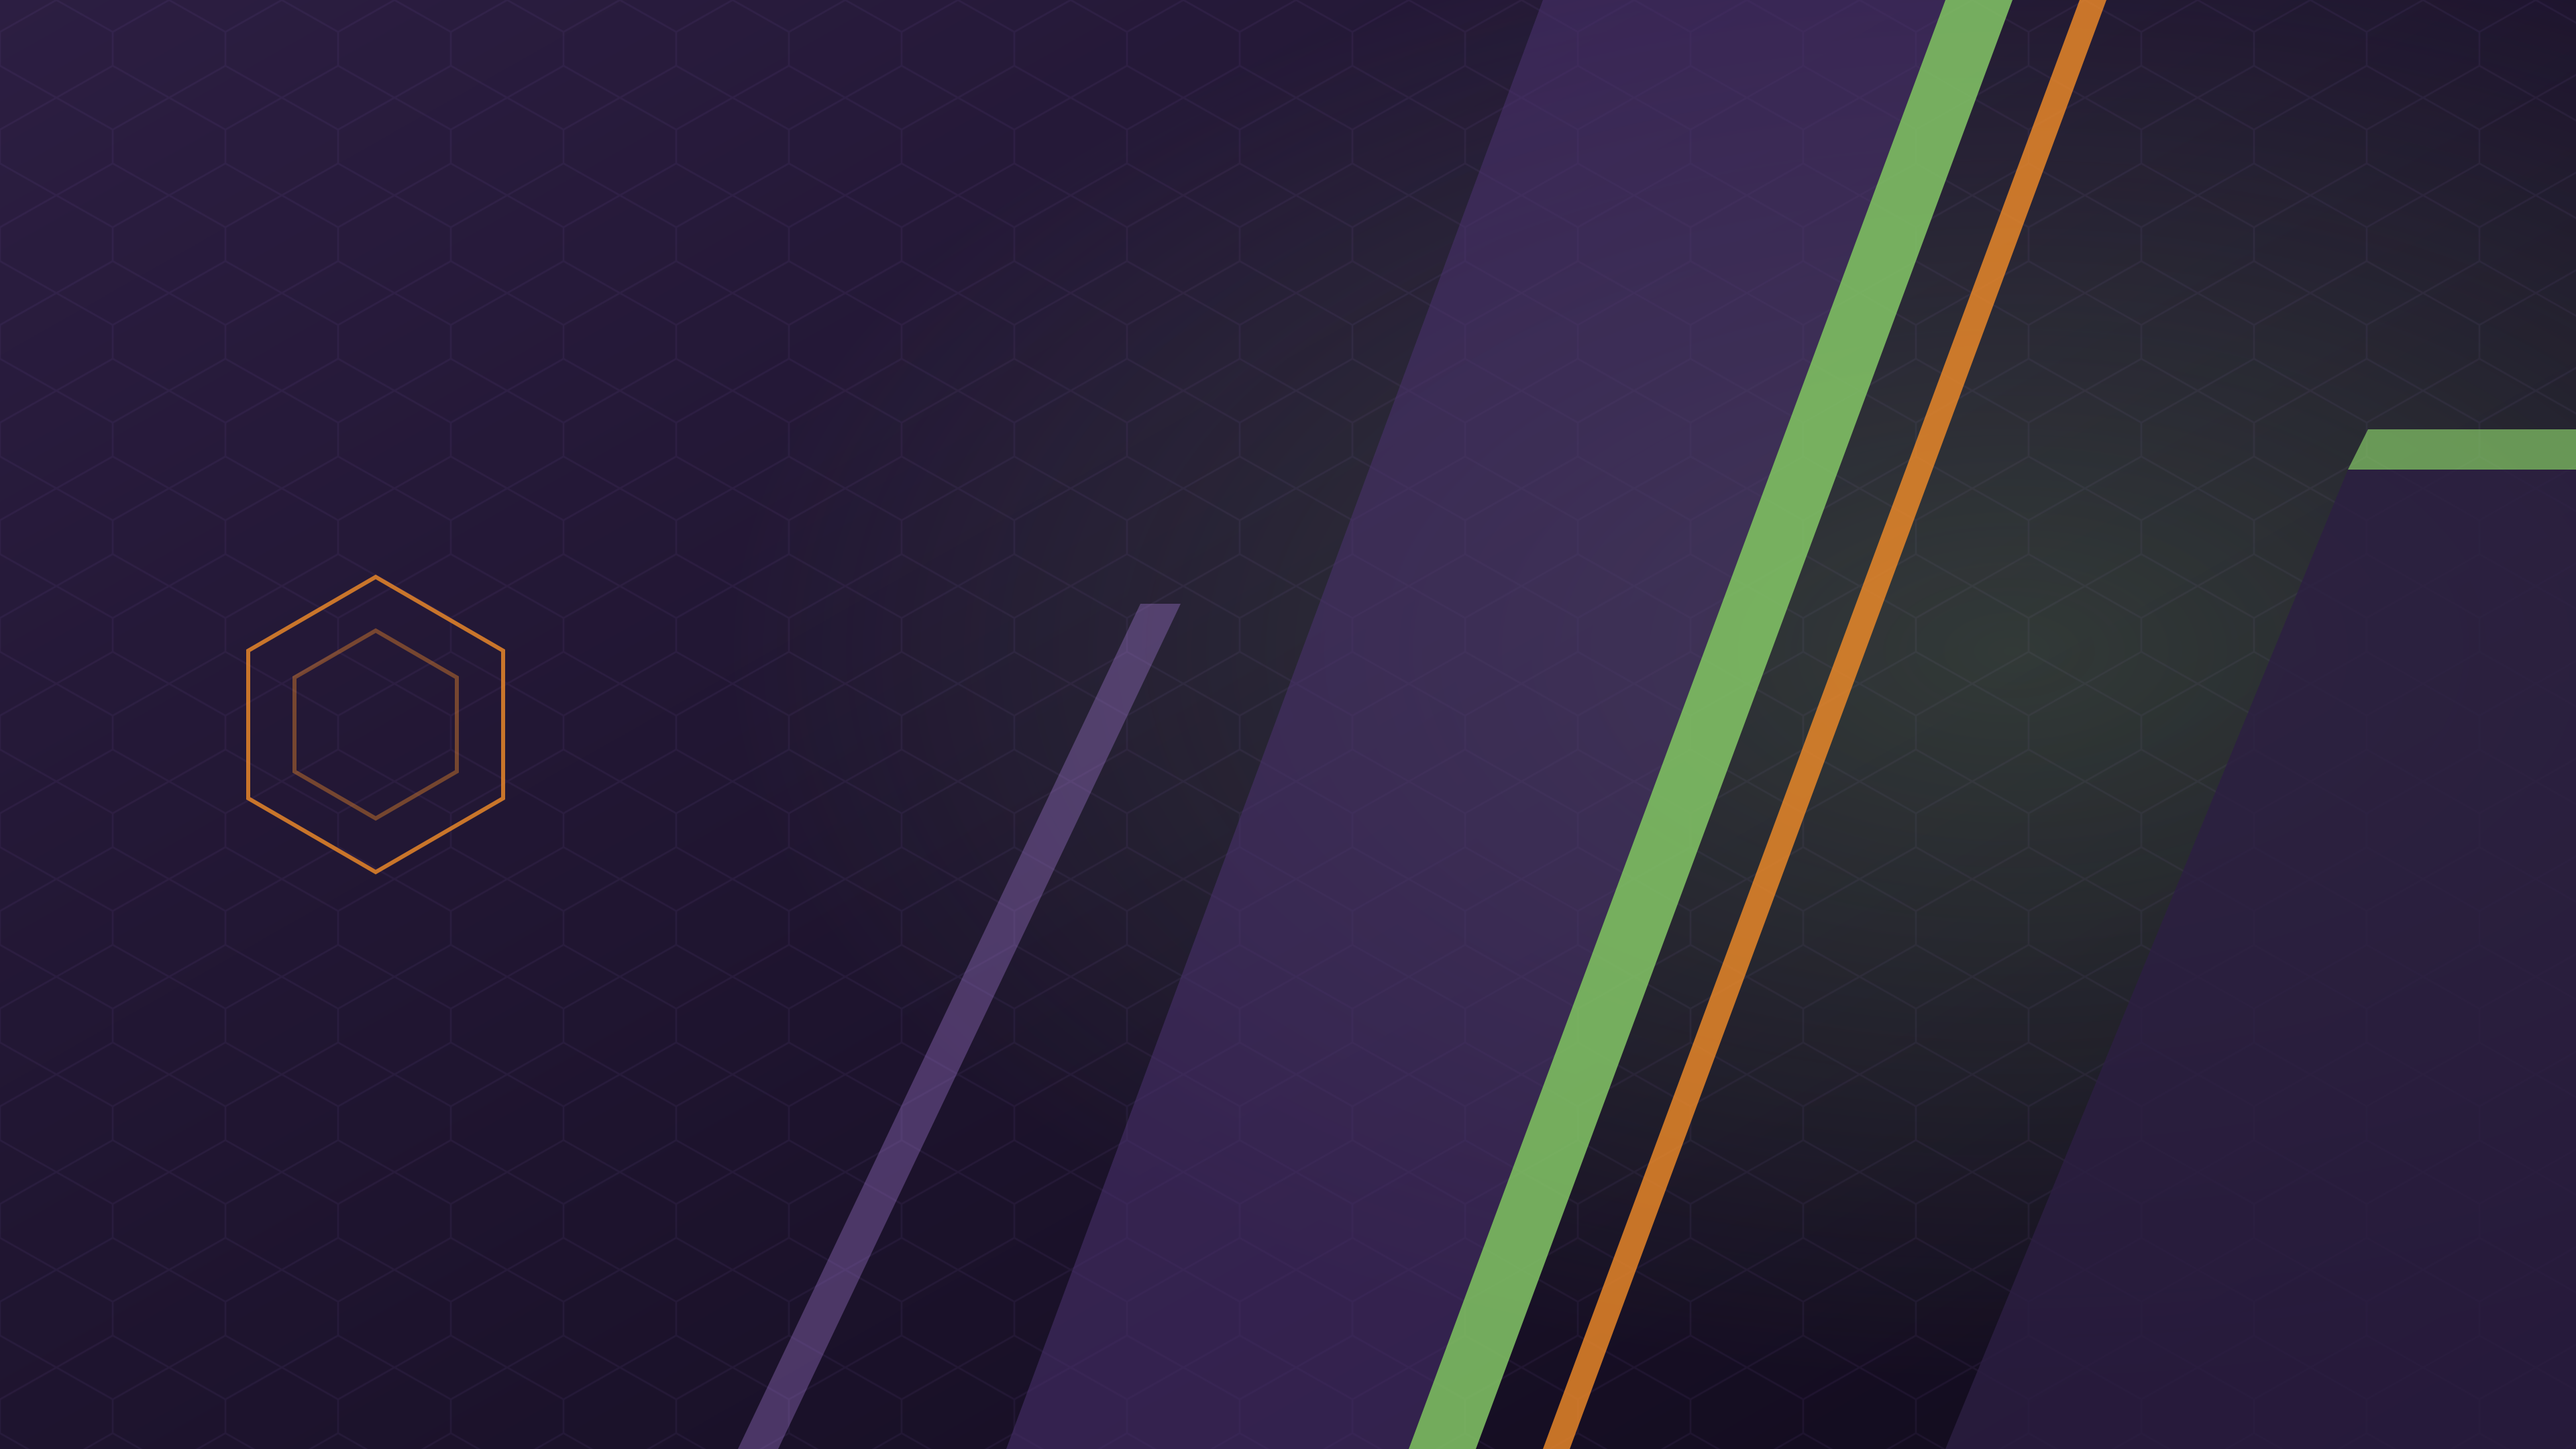
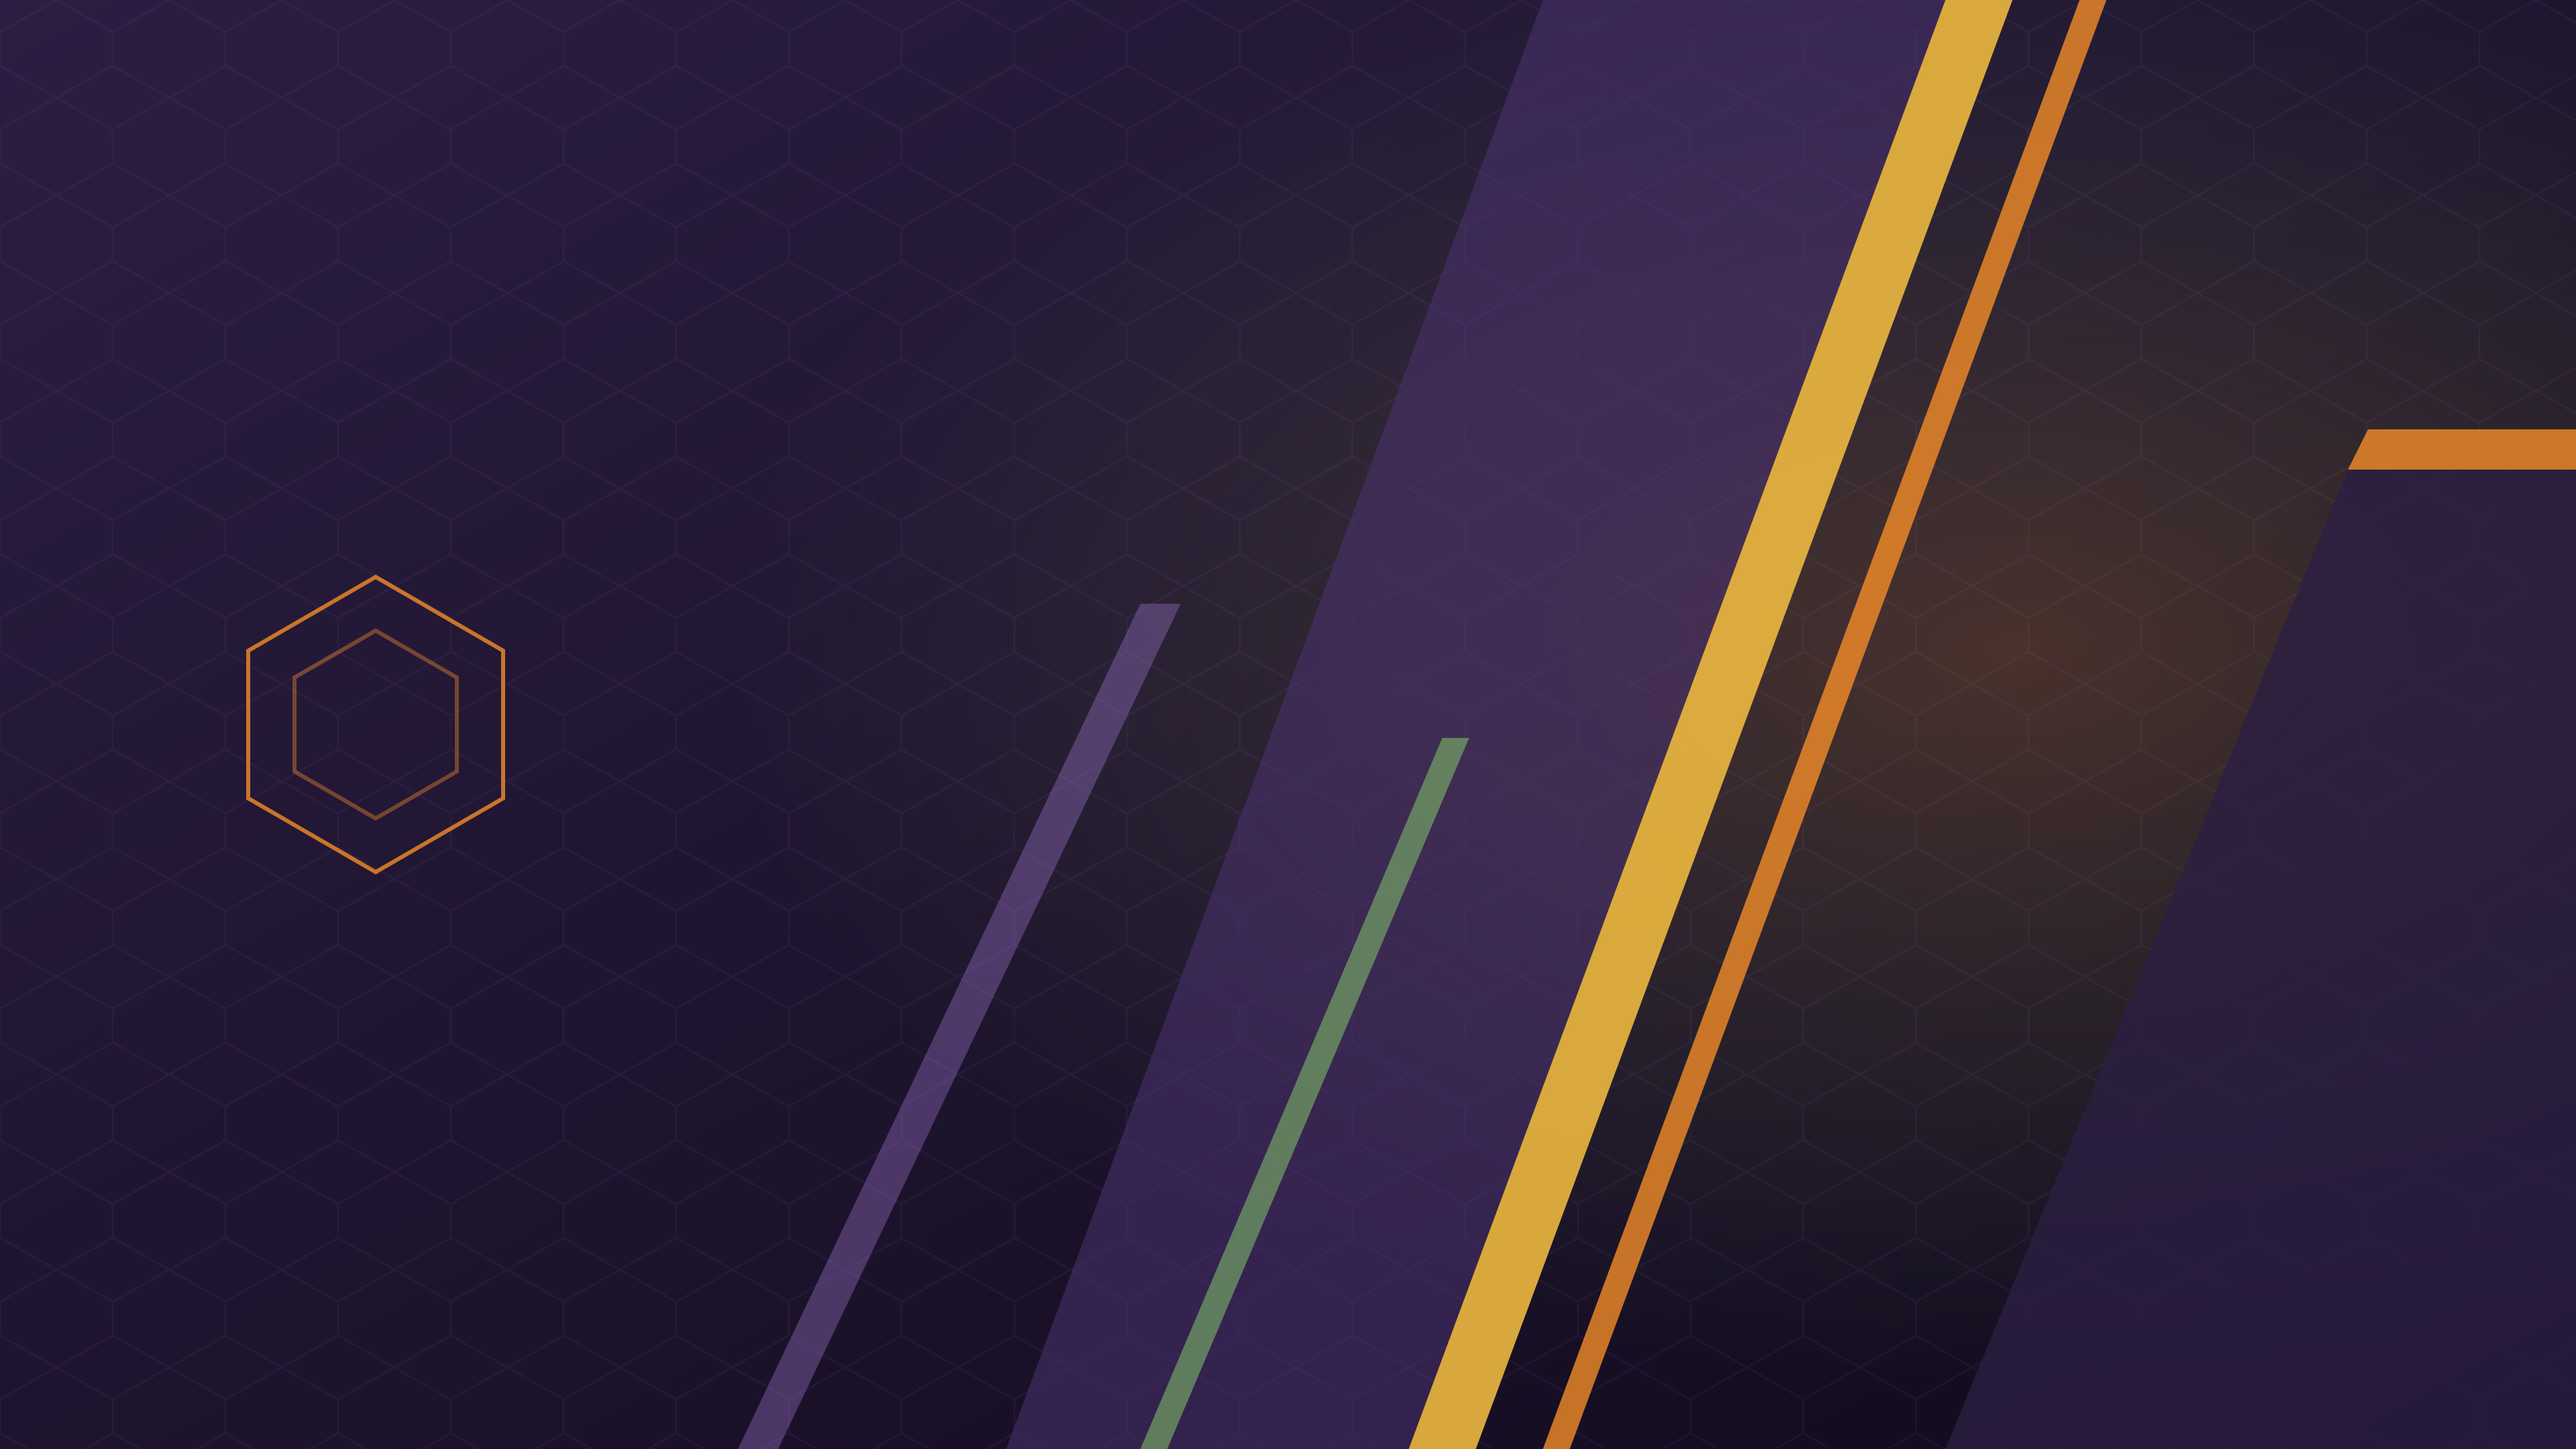
More amber/orange, less green

diff --git a/README.md b/README.md
@@ -3,7 +3,7 @@
 ![preview](preview.png)
 
 Dark theme for [Omarchy](https://omarchy.org/) inspired by the **color palette** of Evangelion Unit-01:
-deep violet armor, acid-green accents and warning-orange highlights — softened for long sessions
+deep violet armor, amber accents, orange flashes and a touch of green — softened for long sessions
 (low-saturation mid tones, warm-lavender text, no pure black or pure white).
 
 The wallpaper is an original abstract composition (angular armor plates + hexagon "AT field" motif).
@@ -33,8 +33,8 @@ Chromium, Obsidian and the shell are generated from `colors.toml`.
 |---|---|---|---|---|
 | background | `#1F1530` | | red | `#D9534A` |
 | foreground | `#E0D8EA` | | orange | `#F28C28` |
-| accent (EVA green) | `#84C766` | | yellow | `#E3B341` |
-| selection | `#4A3270` | | green | `#6FBF5A` |
+| accent (amber) | `#EDB83F` | | yellow | `#F0C24E` |
+| selection | `#4A3270` | | green | `#7DB868` |
 | muted | `#6E5F8A` | | cyan | `#3EB5A8` |
 | | | | blue | `#6B8FE0` |
 | | | | magenta (EVA purple) | `#A77BD6` |
